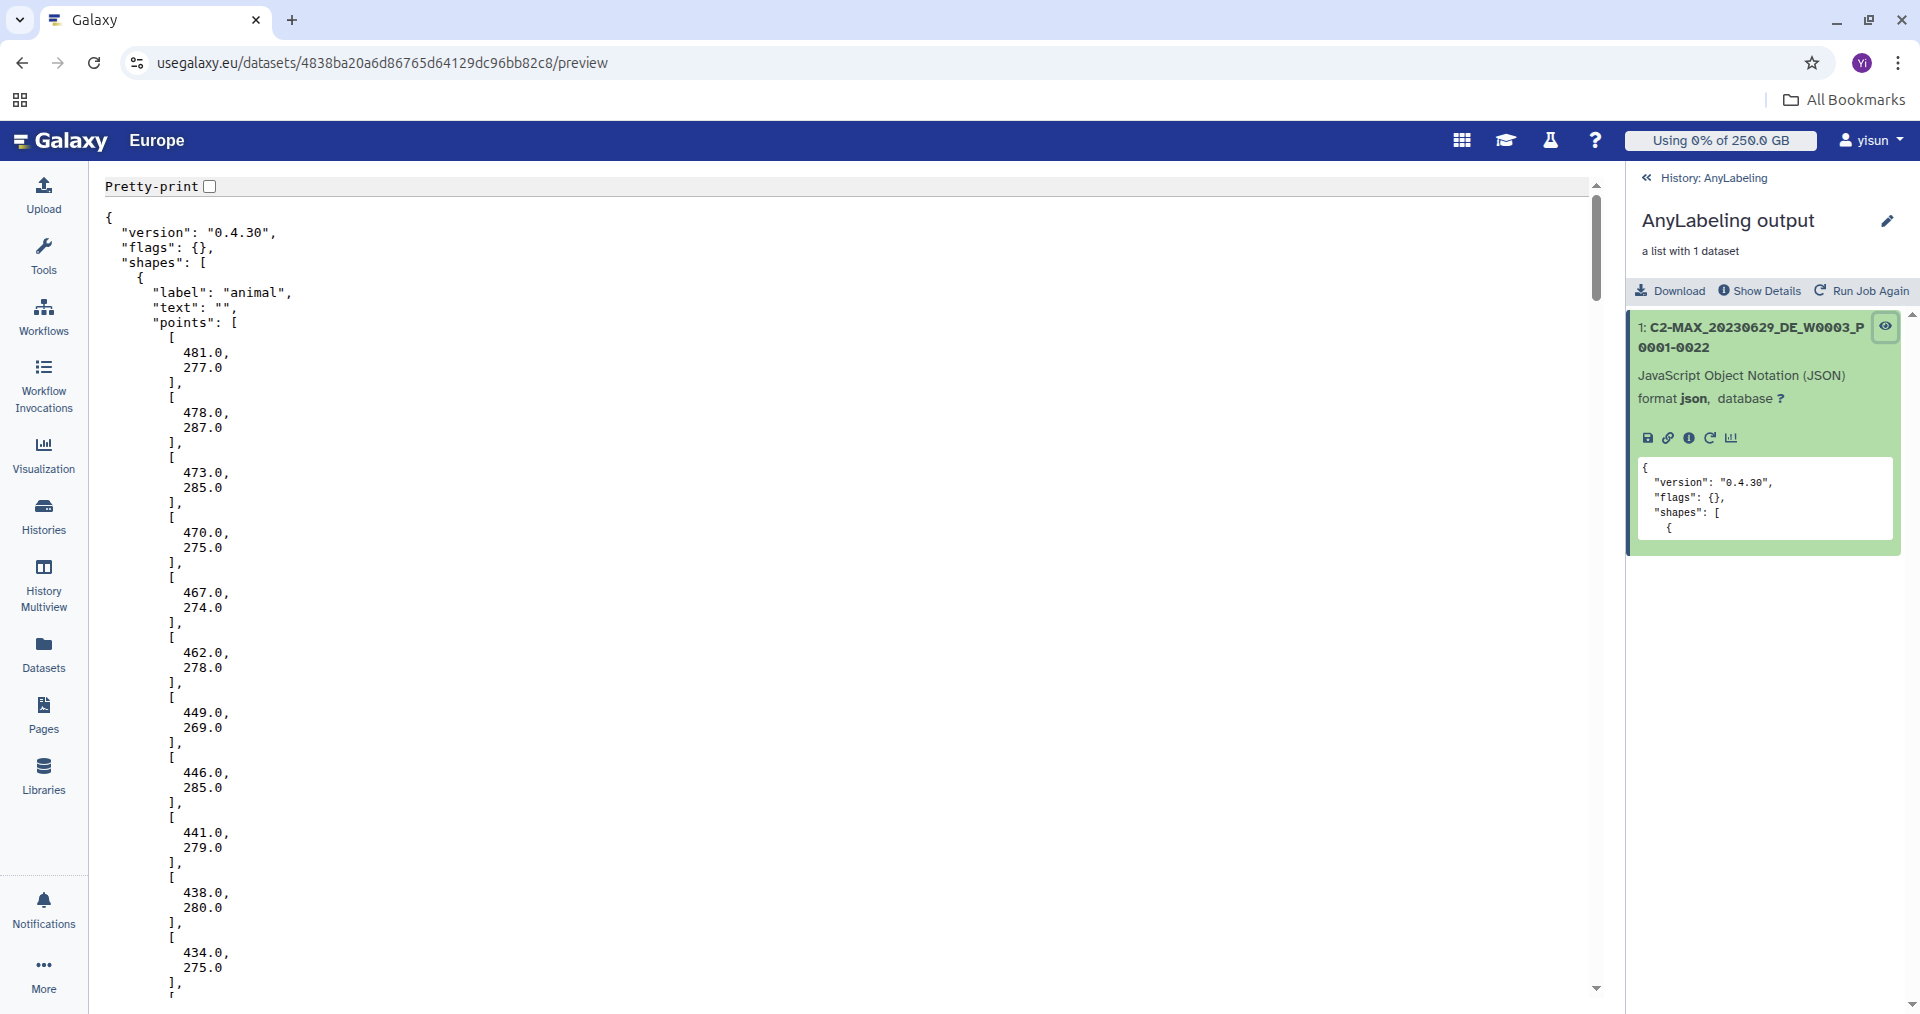
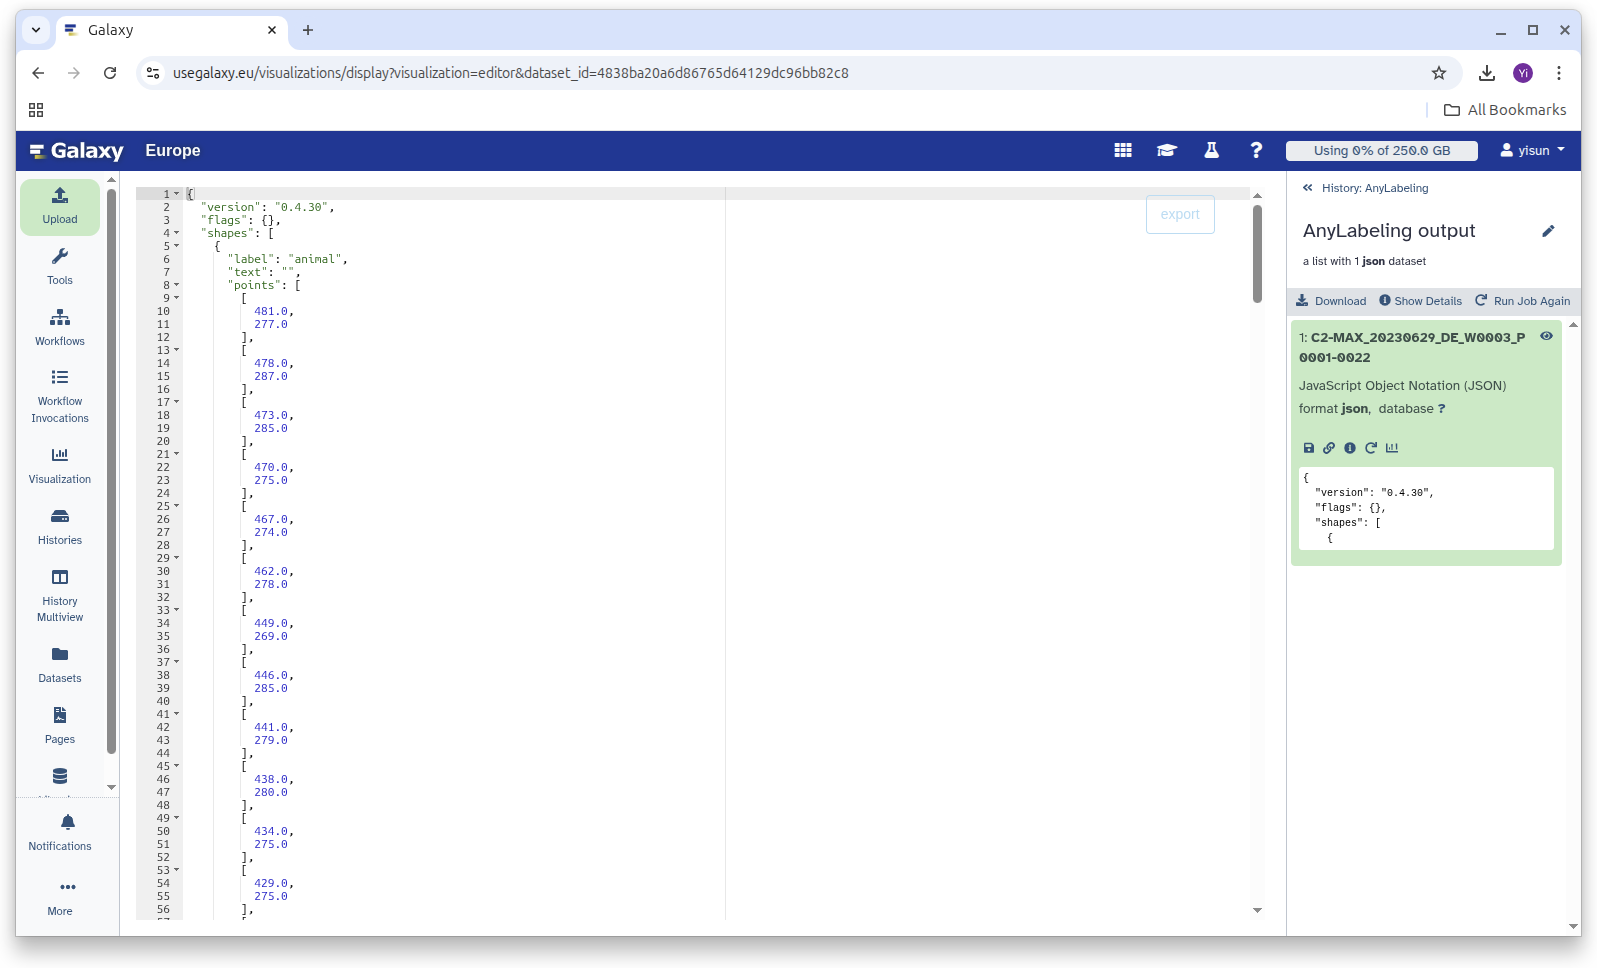
update image,add some description

diff --git a/content/news/2025-05-15-anylabeling-IT/index.md b/content/news/2025-05-15-anylabeling-IT/index.md
@@ -27,7 +27,7 @@ To use AnyLabeling in Galaxy, first you need to create an account in Galaxy and 
 ![AnyLabeling](/images/galaxy-anylabeling.png)
 
 
-Open the images from the `input_images` folder using the AnyLabeling UI. Select `Auto Labeling` from the tool menu on the left, choose one of the model from the dropdown list, and then start your labeling task. Once finished, save your output json in `home/output` folder, close the AnyLabeling GUI and its browser tab. The results in json file will be available in your Galaxy history.
+Open the images from the `input_images` folder using the AnyLabeling UI. Select `Auto Labeling` from the tool menu on the left, choose one of the model from the dropdown list, and then start your labeling task. Once finished, save your output json in `home/output` folder, close the AnyLabeling GUI and its browser tab. The results in json file will be available in your Galaxy history. You can then visualize the annotation json file by clicking the `Visualize` icon and selecting the appropriate viewer.
 
 ![AnyLabeling tasks](/images/galaxy-anylabeling-tasks.png)
 
